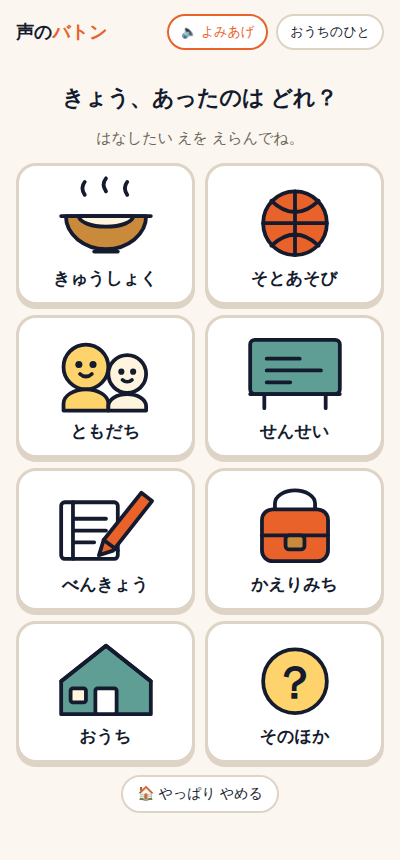
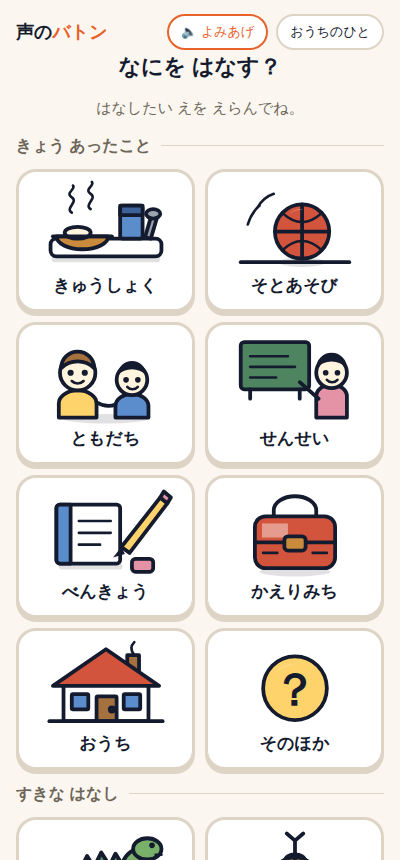
イラストを描き込み、「すきな はなし」を6つ追加
アイコンではなく、ちゃんと見て楽しい絵にしてほしい、恐竜みたいな
好きなものも入れてほしい、という指摘への対応。

- 14枚すべてを描き直し。影・ハイライト・中間色を入れて、
  きゅうしょくはトレイと茶碗と牛乳とスプーン、ともだちは手をつなぐ二人、
  せんせいは黒板の横に立つ人、というところまで描いた
- 「すきな はなし」を新設（時間帯に関係なく いつでも出る）
  きょうりゅう／むし／でんしゃ／どうぶつ／あそび／えほん
  6さいは「きょうの できごと」より「すきな きょうりゅう」のほうが
  ずっと たくさん しゃべる。しゃべれば言葉がふえる
- 質問も そのための形に
  「すきな きょうりゅう、なに？」「どんな きょうりゅう？ おおきい？」
  「なんで すきなの？」
- 画面を2段に分け、時間帯の話題と すきな話を並べた

E2Eは本流40項目・時間帯と親の質問22項目とも通過。

Claude-Session: https://claude.ai/code/session_01FDsueusesyAsHMPhH392Fy

diff --git a/index.html b/index.html
@@ -164,6 +164,17 @@ button:focus-visible{outline:3px solid var(--baton); outline-offset:3px}
 .topic .eye{fill:var(--ink); stroke:none}
 .topic .qm{stroke:none; fill:var(--ink); font-family:var(--font-display);
   font-weight:900; font-size:38px; text-anchor:middle}
+/* 絵の中の色。地（パネル）が明るくても暗くても読める中間色にしてある */
+.topic .sh{fill:var(--ink); opacity:.13; stroke:none}
+.topic .wh{fill:#fff; opacity:.42; stroke:none}
+.topic .thin{stroke-width:2.2}
+.topic .g1{fill:#79b06a} .topic .g2{fill:#4e8560}
+.topic .br{fill:#a4713f} .topic .bu{fill:#5b8ccc} .topic .bu2{fill:#3c6299}
+.topic .pk{fill:#e492a6} .topic .gy{fill:#9aa3ae} .topic .rd{fill:#d2543c}
+.pickgroup{display:flex; flex-direction:column; gap:10px}
+.glabel{font-family:var(--font-display); font-weight:700; font-size:16px; color:var(--soft);
+  display:flex; align-items:center; gap:10px}
+.glabel::after{content:""; flex:1; height:1px; background:var(--line)}
 
 /* こえトリの かお えらび */
 .feels{display:grid; grid-template-columns:1fr 1fr 1fr; gap:9px}
@@ -274,10 +285,15 @@ label.fl{display:block; font-size:13px; font-weight:700; letter-spacing:.06em; c
 
   <!-- きょうの できごとを 絵で えらぶ（話題がきまると、質問がつながる） -->
   <section class="screen" id="s-pick">
-    <div class="stack grow" style="justify-content:center">
-      <h2 style="text-align:center">きょう、あったのは どれ？</h2>
+    <div class="stack grow">
+      <h2 style="text-align:center">なにを はなす？</h2>
       <p class="sub" style="text-align:center">はなしたい えを えらんでね。</p>
-      <div class="topics" id="topics"></div>
+      <div class="pickgroup">
+        <div class="glabel" id="glabel1">きょう あったこと</div>
+        <div class="topics" id="topics"></div>
+        <div class="glabel">すきな はなし</div>
+        <div class="topics" id="topicsFun"></div>
+      </div>
       <button class="mini" data-go="home" style="align-self:center">🏠 やっぱり やめる</button>
     </div>
   </section>
@@ -553,8 +569,25 @@ const TOPICS = [
   { id:"ashita", word:"あした", lead:"あしたの はなし、きかせて",
     qs:["あした、なにが ある？","たのしみ？ ちょっと いや？","どんなふうに したい？"] },
   { id:"hoka", word:"そのほか", lead:"きかせて",
-    qs:["なにが あったの？","それで、どうなったの？","そのとき、なんて いった？"] }
+    qs:["なにが あったの？","それで、どうなったの？","そのとき、なんて いった？"] },
+
+  /* すきな はなし。いつでも出る。
+     6さいは「きょうの できごと」より「すきな きょうりゅう」のほうが ずっと たくさん しゃべる。
+     しゃべれば 言葉が ふえる。えらぶのが たのしいことが、そのまま 言葉の けいこになる。 */
+  { id:"kyoryu", word:"きょうりゅう", lead:"きょうりゅうの はなし、きかせて", fun:true,
+    qs:["すきな きょうりゅう、なに？","どんな きょうりゅう？ おおきい？","なんで すきなの？"] },
+  { id:"mushi", word:"むし", lead:"むしの はなし、きかせて", fun:true,
+    qs:["すきな むし、なに？","どこで みつけた？","どんな かたち してた？"] },
+  { id:"densha", word:"でんしゃ", lead:"でんしゃの はなし、きかせて", fun:true,
+    qs:["すきな でんしゃ、なに？","どこまで いってみたい？","だれと のりたい？"] },
+  { id:"doubutsu", word:"どうぶつ", lead:"どうぶつの はなし、きかせて", fun:true,
+    qs:["すきな どうぶつ、なに？","どんな こえで なくの？","あえたら なにする？"] },
+  { id:"asobi", word:"あそび", lead:"あそびの はなし、きかせて", fun:true,
+    qs:["なんの あそびが すき？","だれと やるの？","どこが いちばん たのしい？"] },
+  { id:"ehon", word:"えほん", lead:"えほんの はなし、きかせて", fun:true,
+    qs:["すきな おはなし、なに？","どんな はなし？","いちばん すきなところは どこ？"] }
 ];
+const FUN_IDS = ["kyoryu","mushi","densha","doubutsu","asobi","ehon"];
 const TOPIC = {}; TOPICS.forEach(t => TOPIC[t.id] = t);
 const NODS = ["そっか。","うんうん。","ちゃんと きいてるよ。","はなして くれて ありがとう。"];
 
@@ -708,73 +741,171 @@ function birdListening(){   // 耳を立てて、音の輪が広がる
 /* きょうの できごとの え。読めない子のための道しるべであり、言葉をおぼえる絵本でもある */
 const TOPIC_ART = {
   kyushoku:
-    '<path class="ln" d="M32 16q-4-6 0-11M50 13q-4-6 0-11M68 16q-4-6 0-11"/>'
-    + '<path class="ch" d="M16 34h68a34 28 0 0 1-68 0z"/>'
-    + '<path class="bl" d="M27 34h46a23 9 0 0 1-46 0z"/>'
-    + '<path class="ln" d="M12 34h76"/><path class="ln" d="M40 64h20"/>',
+    '<path class="ln thin" d="M21 26c-6-4 6-9 0-13s4-7 1-10M37 23c-6-4 6-9 0-13s4-7 1-10"/>'
+    + '<rect class="sh" x="4" y="62" width="92" height="6" rx="3"/>'
+    + '<rect class="pn" x="3" y="48" width="94" height="15" rx="5"/>'
+    + '<path class="ch" d="M8 46h44a22 11 0 0 1-44 0z"/>'
+    + '<ellipse class="bl" cx="26" cy="43" rx="11" ry="5"/>'
+    + '<path class="ln" d="M5 46h50"/>'
+    + '<rect class="bu" x="62" y="20" width="19" height="28" rx="2"/>'
+    + '<path class="bu2" d="M62 20h19v8H62z"/>'
+    + '<path class="gy" d="M88 30l5 1-5 17-5-1z"/><ellipse class="gy" cx="90" cy="27" rx="6" ry="4"/>',
   soto:
-    '<circle class="bk" cx="50" cy="40" r="27"/>'
-    + '<path class="ln" d="M23 40h54M50 13v54M30 21q20 19 40 0M30 59q20-19 40 0"/>',
+    '<path class="ln" d="M4 68h92"/>'
+    + '<ellipse class="sh" cx="56" cy="68" rx="20" ry="4"/>'
+    + '<circle class="rd" cx="56" cy="42" r="23"/>'
+    + '<path class="ln" d="M33 42h46M56 19v46"/>'
+    + '<path class="ln thin" d="M39 26q17 16 34 0M39 58q17-16 34 0"/>'
+    + '<path class="wh" d="M45 27a17 17 0 0 1 12-4 22 22 0 0 0-12 4z"/>'
+    + '<path class="ln thin" d="M18 22q5-9 14-12M10 36q3-10 10-16"/>',
   tomodachi:
-    '<circle class="bd" cx="33" cy="33" r="19"/>'
-    + '<path class="bd" d="M14 70v-6a19 12 0 0 1 38 0v6z"/>'
-    + '<circle class="bl" cx="68" cy="39" r="16"/>'
-    + '<path class="bl" d="M52 70v-4a16 10 0 0 1 32 0v4z"/>'
-    + '<circle class="eye" cx="27" cy="31" r="3"/><circle class="eye" cx="39" cy="31" r="3"/>'
-    + '<path class="ln" d="M28 39a7 7 0 0 0 10 0"/>'
-    + '<circle class="eye" cx="63" cy="37" r="2.6"/><circle class="eye" cx="73" cy="37" r="2.6"/>'
-    + '<path class="ln" d="M64 44a6 6 0 0 0 8 0"/>',
+    '<ellipse class="sh" cx="50" cy="71" rx="36" ry="4"/>'
+    + '<path class="bd" d="M10 70V58a16 11 0 0 1 32 0v12z"/>'
+    + '<circle class="bl" cx="26" cy="32" r="15"/>'
+    + '<path class="br" d="M12 28a14 14 0 0 1 28 0 20 20 0 0 0-28 0z"/>'
+    + '<circle class="eye" cx="20" cy="32" r="2.6"/><circle class="eye" cx="32" cy="32" r="2.6"/>'
+    + '<path class="ln thin" d="M21 39a7 7 0 0 0 10 0"/>'
+    + '<path class="bu" d="M58 70V60a14 10 0 0 1 28 0v10z"/>'
+    + '<circle class="bl" cx="72" cy="38" r="13"/>'
+    + '<path class="eye" d="M60 34a12 12 0 0 1 24 0 17 17 0 0 0-24 0z"/>'
+    + '<circle class="eye" cx="67" cy="38" r="2.4"/><circle class="eye" cx="77" cy="38" r="2.4"/>'
+    + '<path class="ln thin" d="M68 44a6 6 0 0 0 9 0"/>'
+    + '<path class="ln" d="M42 57q8 5 16 2"/>',
   sensei:
-    '<rect class="hs" x="12" y="10" width="76" height="46" rx="4"/>'
-    + '<path class="ln" d="M26 26h28M26 36h46M26 46h20"/>'
-    + '<path class="ln" d="M24 56v12M76 56v12M12 56h76"/>',
+    '<rect class="g2" x="4" y="6" width="58" height="40" rx="3"/>'
+    + '<path class="ln thin" d="M12 18h32M12 27h38M12 36h22"/>'
+    + '<path class="ln" d="M12 46v8M54 46v8"/>'
+    + '<path class="pk" d="M68 70V52a13 10 0 0 1 26 0v18z"/>'
+    + '<circle class="bl" cx="81" cy="32" r="13"/>'
+    + '<path class="eye" d="M68 28a13 13 0 0 1 26 0 18 18 0 0 0-26 0z"/>'
+    + '<circle class="eye" cx="76" cy="32" r="2.4"/><circle class="eye" cx="86" cy="32" r="2.4"/>'
+    + '<path class="ln thin" d="M77 38a6 6 0 0 0 9 0"/>'
+    + '<path class="ln" d="M70 54L54 40"/>',
   benkyou:
-    '<rect class="pn" x="12" y="18" width="48" height="48" rx="3"/>'
-    + '<path class="ln" d="M22 32h28M22 42h28M22 52h18M22 18v48"/>'
-    + '<path class="bk" d="M80 10l9 7-33 42-12 4 4-13z"/>'
-    + '<path class="ln" d="M48 50l12 9"/>',
+    '<rect class="sh" x="10" y="64" width="54" height="5" rx="2"/>'
+    + '<rect class="pn" x="8" y="14" width="54" height="50" rx="3"/>'
+    + '<path class="bu" d="M8 17a3 3 0 0 1 3-3h9v50h-9a3 3 0 0 1-3-3z"/>'
+    + '<path class="ln thin" d="M27 28h27M27 38h27M27 48h18"/>'
+    + '<path class="bd" d="M96 8l6 5-32 42-7-5z"/>'
+    + '<path class="pk" d="M96 8l6 5 3-5-6-5z"/>'
+    + '<path class="eye" d="M63 50l-7 9 10-3z"/>'
+    + '<rect class="pk" x="72" y="60" width="18" height="11" rx="3"/>',
   kaeri:
-    '<path class="ln" d="M33 26v-7a17 11 0 0 1 34 0v7"/>'
-    + '<rect class="bk" x="22" y="24" width="56" height="44" rx="9"/>'
-    + '<path class="ln" d="M22 46h56"/>'
-    + '<rect class="ch" x="42" y="46" width="16" height="12" rx="3"/>',
+    '<ellipse class="sh" cx="50" cy="71" rx="30" ry="4"/>'
+    + '<path class="ln" d="M32 26v-7a18 12 0 0 1 36 0v7"/>'
+    + '<rect class="rd" x="16" y="24" width="68" height="44" rx="9"/>'
+    + '<path class="ln" d="M16 46h68"/>'
+    + '<path class="wh" d="M22 30h22v12H22z"/>'
+    + '<rect class="ch" x="41" y="41" width="18" height="12" rx="3"/>'
+    + '<path class="ln thin" d="M23 55h12M65 55h12"/>',
   ouchi:
-    '<path class="hs" d="M12 40L50 10l38 30v28H12z"/>'
-    + '<path class="ln" d="M12 40L50 10l38 30"/>'
-    + '<rect class="pn" x="41" y="46" width="18" height="22" rx="2"/>'
-    + '<rect class="bl" x="20" y="46" width="13" height="12" rx="2"/>',
+    '<path class="ln thin" d="M74 12q-5-6 0-11"/>'
+    + '<rect class="br" x="68" y="12" width="10" height="16"/>'
+    + '<path class="rd" d="M5 38L50 7l45 31z"/>'
+    + '<rect class="pn" x="14" y="38" width="72" height="30"/>'
+    + '<rect class="bu" x="21" y="45" width="14" height="13" rx="1"/>'
+    + '<rect class="bu" x="65" y="45" width="14" height="13" rx="1"/>'
+    + '<rect class="br" x="42" y="47" width="17" height="21" rx="1"/>'
+    + '<circle class="bd" cx="55" cy="58" r="1.8"/>'
+    + '<path class="ln" d="M2 68h96"/>',
   gohan:
-    '<path class="ln" d="M32 16q-4-6 0-11M50 13q-4-6 0-11M68 16q-4-6 0-11"/>'
-    + '<path class="ch" d="M16 34h68a34 28 0 0 1-68 0z"/>'
-    + '<path class="bl" d="M27 34h46a23 9 0 0 1-46 0z"/>'
-    + '<path class="ln" d="M12 34h76"/><path class="ln" d="M40 64h20"/>',
+    '<path class="ln thin" d="M30 15q-5-8 0-13M48 12q-5-8 0-13"/>'
+    + '<path class="bl" d="M20 36h44a22 10 0 0 1-44 0z"/>'
+    + '<path class="pn" d="M14 36h56a28 26 0 0 1-56 0z"/>'
+    + '<path class="ln" d="M10 36h64"/>'
+    + '<path class="ch" d="M32 64h20v5H32z"/>'
+    + '<path class="br" d="M84 12l4 1-9 48-4-1z"/><path class="br" d="M93 14l4 1-9 48-4-1z"/>',
   yume:
-    '<path class="bd" d="M50 4l6 13 14 2-10 9.5 2.5 14L50 36l-12.5 6.5 2.5-14-10-9.5 14-2z"/>'
-    + '<path class="pn" d="M28 70a14 14 0 0 1 2-27 19 19 0 0 1 36 4 12 12 0 0 1-2 23z"/>',
+    '<path class="bd" d="M22 16l4 8.4 9.2 1.4-6.6 6.4 1.6 9.2L22 37l-8.2 4.4 1.6-9.2L8.8 25.8 18 24.4z"/>'
+    + '<path class="bd" d="M78 8a17 17 0 1 0 0 32 19 19 0 0 1 0-32z"/>'
+    + '<path class="pn" d="M26 71a14 14 0 0 1 2-26 19 19 0 0 1 36 4 12 12 0 0 1-2 22z"/>',
   tenki:
-    '<circle class="bd" cx="40" cy="30" r="16"/>'
-    + '<path class="ln" d="M40 4v8M40 48v4M14 30h8M62 26h6M21 11l6 6M59 11l-6 6M21 49l6-6"/>'
-    + '<path class="pn" d="M48 70a11 11 0 0 1 2-21 15 15 0 0 1 28 3 10 10 0 0 1-2 18z"/>',
+    '<circle class="bd" cx="36" cy="28" r="16"/>'
+    + '<path class="wh" d="M28 20a11 11 0 0 1 14 2 16 16 0 0 0-14-2z"/>'
+    + '<path class="ln thin" d="M36 4v7M9 28h7M14 8l5 5M58 8l-5 5M14 48l5-5M36 46v4"/>'
+    + '<path class="pn" d="M48 71a13 13 0 0 1 2-24 17 17 0 0 1 32 3 11 11 0 0 1-2 21z"/>',
   tanoshimi:
-    '<path class="ln" style="stroke:var(--baton);stroke-width:9" d="M14 64a36 36 0 0 1 72 0"/>'
-    + '<path class="ln" style="stroke:var(--bird);stroke-width:9" d="M23 64a27 27 0 0 1 54 0"/>'
-    + '<path class="ln" style="stroke:var(--house);stroke-width:9" d="M32 64a18 18 0 0 1 36 0"/>'
-    + '<path class="ln" d="M8 64h84"/>',
+    '<path class="ln" style="stroke:var(--baton);stroke-width:10" d="M16 62a34 34 0 0 1 68 0"/>'
+    + '<path class="ln" style="stroke:var(--bird);stroke-width:10" d="M26 62a24 24 0 0 1 48 0"/>'
+    + '<path class="ln" style="stroke:#5b8ccc;stroke-width:10" d="M36 62a14 14 0 0 1 28 0"/>'
+    + '<path class="pn" d="M6 70a9 9 0 0 1 1-17 13 13 0 0 1 24 2 8 8 0 0 1-1 15z"/>'
+    + '<path class="pn" d="M70 70a9 9 0 0 1 1-17 13 13 0 0 1 24 2 8 8 0 0 1-1 15z"/>',
   ichiban:
-    '<path class="ln" d="M34 8l11 20M66 8l-11 20"/>'
+    '<path class="bu" d="M28 4l16 26-10 6L22 10z"/><path class="rd" d="M72 4L56 30l10 6L78 10z"/>'
     + '<circle class="bd" cx="50" cy="46" r="24"/>'
-    + '<path class="bk" d="M50 31l5 10.5 11.5 1.7-8.3 8 2 11.3L50 57.2 39.8 62.5l2-11.3-8.3-8L45 41.5z"/>',
+    + '<circle class="wh" cx="50" cy="46" r="18"/>'
+    + '<path class="bk" d="M50 32l5 10.5 11.5 1.7-8.3 8 2 11.3L50 58.2 39.8 63.5l2-11.3-8.3-8L45 42.5z"/>',
   ofuro:
-    '<path class="ln" d="M32 20q-5-7 0-13M52 17q-5-7 0-13"/>'
-    + '<path class="bl" d="M12 38h76v12a18 18 0 0 1-18 18H30a18 18 0 0 1-18-18z"/>'
-    + '<path class="ln" d="M8 38h84"/><path class="ln" d="M24 68v6M76 68v6"/>',
+    '<path class="ln thin" d="M24 18q-6-9 0-15M44 14q-6-9 0-15"/>'
+    + '<path class="pn" d="M8 36h84v14a18 18 0 0 1-18 18H26a18 18 0 0 1-18-18z"/>'
+    + '<path class="bu" d="M13 41h74v9a14 14 0 0 1-14 14H27a14 14 0 0 1-14-14z"/>'
+    + '<path class="ln" d="M4 36h92"/>'
+    + '<path class="bd" d="M56 36a8 7 0 0 1 16 0z"/><circle class="bd" cx="70" cy="27" r="6"/>'
+    + '<path class="bk" d="M75 26l7 2-7 3z"/><circle class="eye" cx="69" cy="25" r="1.6"/>'
+    + '<path class="ln" d="M20 68v6M80 68v6"/>',
   ashita:
     '<path class="bd" d="M22 56a28 28 0 0 1 56 0z"/>'
-    + '<path class="ln" d="M8 56h84"/>'
-    + '<path class="ln" d="M50 8v10M20 20l7 8M80 20l-7 8M6 42h9M85 42h9"/>',
+    + '<path class="ln thin" d="M50 8v10M20 18l7 8M80 18l-7 8M4 40h9M87 40h9"/>'
+    + '<path class="ln" d="M4 56h92"/>'
+    + '<path class="ln thin" d="M12 26q4-5 8 0 4-5 8 0M74 18q3-4 6 0 3-4 6 0"/>',
   hoka:
     '<circle class="bd" cx="50" cy="40" r="27"/>'
-    + '<text class="qm" x="50" y="54">？</text>'
+    + '<path class="wh" d="M32 28a27 27 0 0 1 21-9 35 35 0 0 0-21 9z"/>'
+    + '<text class="qm" x="50" y="54">？</text>',
+
+  kyoryu:
+    '<ellipse class="sh" cx="50" cy="71" rx="34" ry="4"/>'
+    + '<path class="g2" d="M26 50Q10 48 2 32q14 2 26 10z"/>'
+    + '<rect class="g2" x="28" y="54" width="11" height="17" rx="5"/>'
+    + '<rect class="g2" x="54" y="54" width="11" height="17" rx="5"/>'
+    + '<ellipse class="g1" cx="46" cy="45" rx="26" ry="16"/>'
+    + '<path class="g1" d="M62 36q2-16 14-20 10-4 13 2-9 3-11 10-2 9-7 13z"/>'
+    + '<ellipse class="g1" cx="85" cy="16" rx="12" ry="9"/>'
+    + '<path class="wh" d="M34 50a13 7 0 0 1 24 0 13 7 0 0 1-24 0z"/>'
+    + '<path class="g2" d="M30 30l4-8 5 8zM42 27l4-8 5 8zM54 28l4-8 5 8z"/>'
+    + '<circle class="eye" cx="89" cy="13" r="2.4"/>'
+    + '<path class="ln thin" d="M92 21h5"/>',
+  mushi:
+    '<ellipse class="sh" cx="50" cy="72" rx="22" ry="3"/>'
+    + '<path class="ln" d="M50 22V9M50 9l-7-6M50 9l7-6"/>'
+    + '<ellipse class="eye" cx="50" cy="26" rx="10" ry="7"/>'
+    + '<ellipse class="br" cx="50" cy="47" rx="21" ry="24"/>'
+    + '<path class="ln" d="M50 25v44"/>'
+    + '<path class="ln thin" d="M31 36L14 28M30 47H11M31 58L14 67M69 36l17-8M70 47h19M69 58l17 9"/>'
+    + '<ellipse class="wh" cx="41" cy="38" rx="6" ry="10"/>',
+  densha:
+    '<path class="ln" d="M2 70h96"/><path class="ln thin" d="M14 74h72M22 70v5M78 70v5"/>'
+    + '<rect class="bu" x="14" y="10" width="72" height="50" rx="9"/>'
+    + '<rect class="pn" x="22" y="19" width="24" height="17" rx="3"/>'
+    + '<rect class="pn" x="54" y="19" width="24" height="17" rx="3"/>'
+    + '<path class="bd" d="M14 42h72v8H14z"/>'
+    + '<circle class="bd" cx="28" cy="55" r="5"/><circle class="bd" cx="72" cy="55" r="5"/>'
+    + '<circle class="gy" cx="30" cy="64" r="7"/><circle class="gy" cx="70" cy="64" r="7"/>'
+    + '<path class="wh" d="M20 14h12v42H20z"/>',
+  doubutsu:
+    '<ellipse class="sh" cx="50" cy="72" rx="26" ry="3"/>'
+    + '<path class="bd" d="M70 67q21 1 21-17 0-9-8-9 4 11-5 15-6 3-8 6z"/>'
+    + '<path class="bd" d="M28 70V58a22 15 0 0 1 44 0v12z"/>'
+    + '<path class="bd" d="M30 22l1-14 13 8zM70 22l-1-14-13 8z"/>'
+    + '<circle class="bd" cx="50" cy="34" r="20"/>'
+    + '<path class="wh" d="M38 40a12 8 0 0 1 24 0 12 8 0 0 1-24 0z"/>'
+    + '<circle class="eye" cx="42" cy="31" r="3.2"/><circle class="eye" cx="58" cy="31" r="3.2"/>'
+    + '<path class="pk" d="M50 37l-4 3 4 3.5 4-3.5z"/>'
+    + '<path class="ln thin" d="M46 45q4 4 8 0M30 33H13M30 40H15M70 33h17M70 40h15"/>',
+  asobi:
+    '<path class="bu" d="M26 22h48a16 16 0 0 1 13 25q-6 13-16 13-8 0-11-9H40q-3 9-11 9-10 0-16-13a16 16 0 0 1 13-25z"/>'
+    + '<rect class="eye" x="22" y="34" width="20" height="7" rx="2"/>'
+    + '<rect class="eye" x="28.5" y="27.5" width="7" height="20" rx="2"/>'
+    + '<circle class="rd" cx="70" cy="32" r="5.5"/><circle class="bd" cx="80" cy="42" r="5.5"/>'
+    + '<path class="wh" d="M30 22h40v5H30z"/>',
+  ehon:
+    '<path class="bd" d="M48 8l4 9 9 1.4-6.5 6.3 1.5 9L48 29.4 39.9 33.7l1.5-9L35 18.4l9-1.4z"/>'
+    + '<path class="rd" d="M4 38l44 10v24L4 62z"/>'
+    + '<path class="bu" d="M96 38L52 48v24l44-10z"/>'
+    + '<path class="pn" d="M9 43l37 8v18L9 61z"/>'
+    + '<path class="pn" d="M91 43L54 51v18l37-8z"/>'
+    + '<path class="ln thin" d="M15 50l25 5M15 57l19 4M60 55l25-5M66 62l19-4"/>'
+    + '<path class="ln" d="M50 48v24"/>'
 };
 function topicArt(id){
   return '<svg viewBox="0 0 100 76" aria-hidden="true">' + (TOPIC_ART[id]||TOPIC_ART.hoka) + '</svg>';
@@ -935,13 +1066,18 @@ function startTalk(){
   go("mic");
   if (LS.get("micOK", false)) getMic();
 }
-function renderPick(){
-  const ids = bandInfo().topics;              // 時間帯に合う話題だけ出す
-  $("#topics").innerHTML = ids.map(id => TOPIC[id]).filter(Boolean).map(t =>
+function cards(ids){
+  return ids.map(id => TOPIC[id]).filter(Boolean).map(t =>
     '<button class="topic" data-t="'+t.id+'">'+topicArt(t.id)+'<span>'+t.word+'</span></button>').join("");
-  $("#topics").querySelectorAll(".topic").forEach(b =>
+}
+function renderPick(){
+  $("#glabel1").textContent = { asa:"きょう これから", hiru:"いま あったこと",
+    yugata:"きょう あったこと", yoru:"きょう あったこと" }[band()];
+  $("#topics").innerHTML    = cards(bandInfo().topics);   // 時間帯に合う話題
+  $("#topicsFun").innerHTML = cards(FUN_IDS);             // すきな話は いつでも
+  document.querySelectorAll("#topics .topic, #topicsFun .topic").forEach(b =>
     b.addEventListener("click", () => chooseTopic(b.dataset.t)));
-  say("きょう、あったのは どれ？ はなしたい えを えらんでね");
+  say("なにを はなす？ はなしたい えを えらんでね");
 }
 function chooseTopic(id){
   sess.topic = id;
